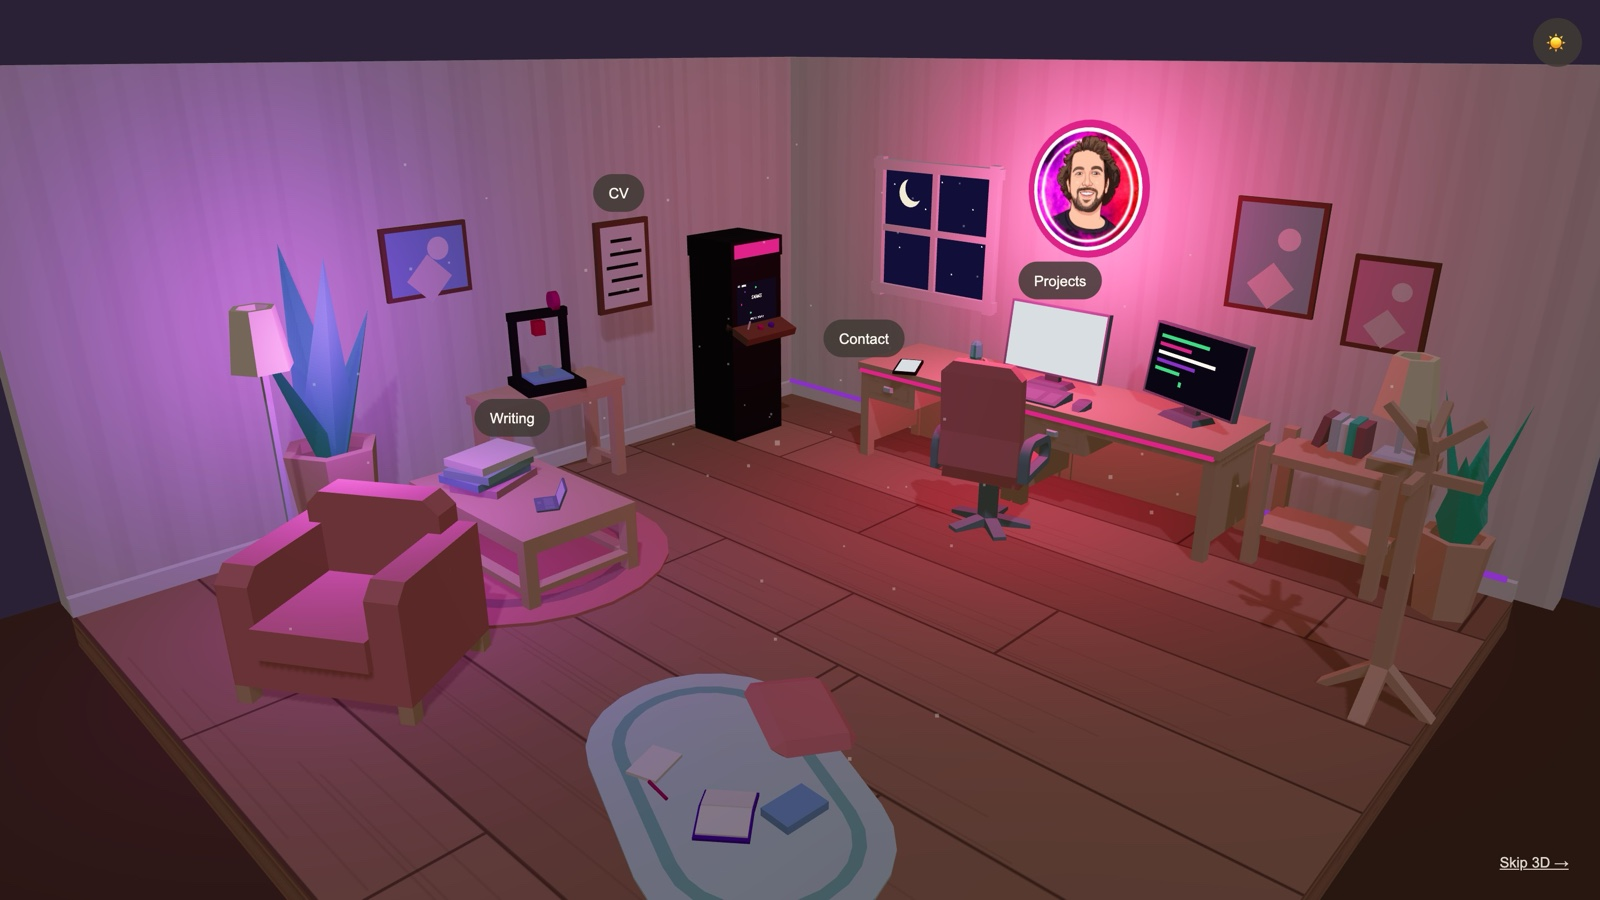
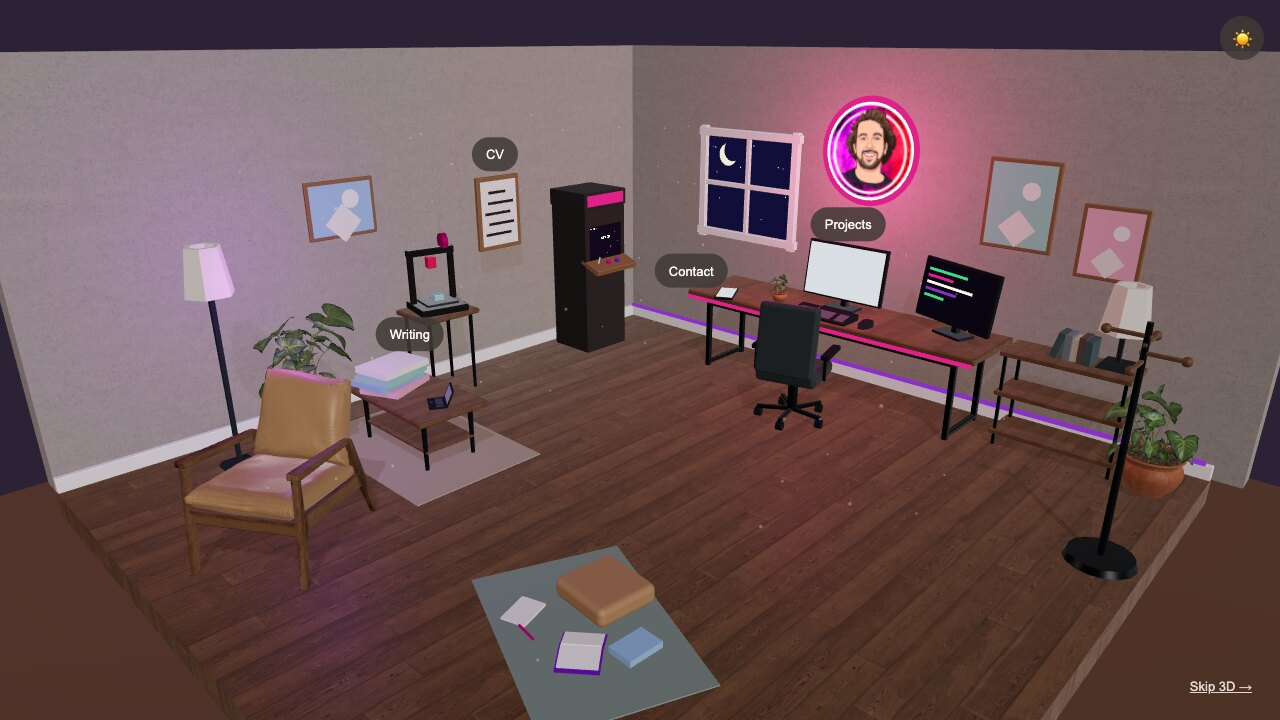
docs(readme): show the realistic room and correct asset credits
Claude-Session: https://claude.ai/code/session_012hfboQ2EmDb5ckqysDf6QZ

diff --git a/index.html b/index.html
@@ -20,8 +20,8 @@
     <meta property="og:locale" content="en" />
     <meta property="og:url" content="https://somosbytes.es/" />
     <meta property="og:image" content="https://somosbytes.es/branding/room.jpg" />
-    <meta property="og:image:width" content="1600" />
-    <meta property="og:image:height" content="900" />
+    <meta property="og:image:width" content="1280" />
+    <meta property="og:image:height" content="720" />
     <meta
       property="og:image:alt"
       content="An isometric 3D room: a desk with a PC, a magazine stack, a framed CV on the wall and a phone, lit in dusk tones."

diff --git a/README.md b/README.md
@@ -99,11 +99,13 @@ ones that landed. Behaviour changes start with a proposal there, not with code.
 
 ## Credits
 
-The furniture is Kenney's CC0 Furniture Kit, the icons were drawn for this project, and the
-logo is the author's own artwork. Full details in [CREDITS.md](CREDITS.md).
+The room's furniture, surfaces and lighting environment are CC0 assets from Poly Haven plus
+original models generated for this project; the keyboard, mouse, laptop, books and lamps come
+from Kenney's CC0 Furniture Kit. The icons were drawn for this project and the logo is the
+author's own artwork. Full details in [CREDITS.md](CREDITS.md).
 
 ## License
 
 The code is MIT — see [LICENSE](LICENSE). The bundled assets keep their own terms: the
-furniture models are CC0, and the logo in `public/branding/` is the author's artwork and is
-not covered by the MIT grant. See [CREDITS.md](CREDITS.md).
+models, textures and lighting environment are CC0, and the logo in `public/branding/` is the
+author's artwork and is not covered by the MIT grant. See [CREDITS.md](CREDITS.md).

diff --git a/CREDITS.md b/CREDITS.md
@@ -26,6 +26,9 @@ Diego Acero's own avatar artwork; all rights reserved by the author.
 
 ## Room screenshot — `public/branding/room.jpg`
 
-A capture of this project's own scene, used as the README image and the link-preview image.
-It therefore contains the Kenney furniture models (CC0) and the author's logo, and inherits
-the terms of both.
+A capture of this project's own scene in dusk mood, used as the README image and the
+link-preview image. It therefore contains the Poly Haven and original CC0 room assets, the
+retained Kenney props (CC0), and the author's logo, and inherits the terms of all of them.
+
+Recaptured 2026-09-11 at 1280x720 from the stage-5 acceptance matrix
+(`docs/room-review/stage-5/desktop-dusk-overview.png`), encoded as JPEG quality 86.
